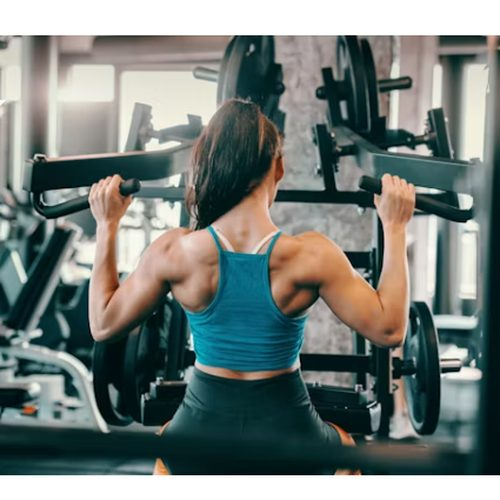
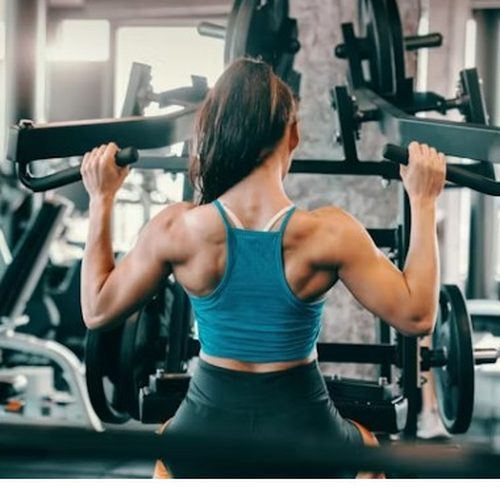
Fix the machine-photo card's blown-out top edge, declutter Spirekilden cards
The "woman at machine" card had a bright overexposed strip at its top
(gym window light) that visually merged with the white card border,
making that one card's frame read as noticeably wider than the other
three. Re-crop lower into the frame to drop the blown-out band.

Spirekilden: the dried-fruit card sat alone at the top-right edge,
disconnected from the other six. Regroup all seven into one tighter
cluster instead.

Claude-Session: https://claude.ai/code/session_0127DN13RaZ2UEjVQk2poARC

diff --git a/helsekost/index.html b/helsekost/index.html
@@ -140,13 +140,13 @@ button:focus-visible,input:focus-visible{outline:3px solid var(--accent);outline
 
 <div class="hero">
   <div class="hero-photos" aria-hidden="true">
-    <div class="photo-card" style="left:55%;top:2%;transform:rotate(-8deg)"><img src="assets/card-veg.jpg" alt="" loading="lazy"></div>
-    <div class="photo-card" style="left:72%;top:0%;transform:rotate(6deg)"><img src="assets/card-tea.jpg" alt="" loading="lazy"></div>
-    <div class="photo-card" style="left:88%;top:4%;transform:rotate(-5deg)"><img src="assets/card-driedfruit-final2.jpg" alt="" loading="lazy"></div>
-    <div class="photo-card" style="left:52%;top:38%;transform:rotate(9deg)"><img src="assets/card-nuts-final.jpg" alt="" loading="lazy"></div>
-    <div class="photo-card" style="left:69%;top:40%;transform:rotate(-7deg)"><img src="assets/card-flour.jpg" alt="" loading="lazy"></div>
-    <div class="photo-card" style="left:60%;top:70%;transform:rotate(-6deg)"><img src="assets/card-muesli.jpg" alt="" loading="lazy"></div>
-    <div class="photo-card" style="left:78%;top:68%;transform:rotate(8deg)"><img src="assets/card-vitamins.jpg" alt="" loading="lazy"></div>
+    <div class="photo-card" style="left:58%;top:4%;transform:rotate(-8deg)"><img src="assets/card-veg.jpg" alt="" loading="lazy"></div>
+    <div class="photo-card" style="left:74%;top:2%;transform:rotate(6deg)"><img src="assets/card-tea.jpg" alt="" loading="lazy"></div>
+    <div class="photo-card" style="left:56%;top:36%;transform:rotate(9deg)"><img src="assets/card-nuts-final.jpg" alt="" loading="lazy"></div>
+    <div class="photo-card" style="left:70%;top:34%;transform:rotate(-5deg)"><img src="assets/card-driedfruit-final2.jpg" alt="" loading="lazy"></div>
+    <div class="photo-card" style="left:84%;top:32%;transform:rotate(-7deg)"><img src="assets/card-flour.jpg" alt="" loading="lazy"></div>
+    <div class="photo-card" style="left:62%;top:68%;transform:rotate(-6deg)"><img src="assets/card-muesli.jpg" alt="" loading="lazy"></div>
+    <div class="photo-card" style="left:78%;top:66%;transform:rotate(8deg)"><img src="assets/card-vitamins.jpg" alt="" loading="lazy"></div>
   </div>
   <div class="hero-fade"></div>
   <div class="hero-inner">
